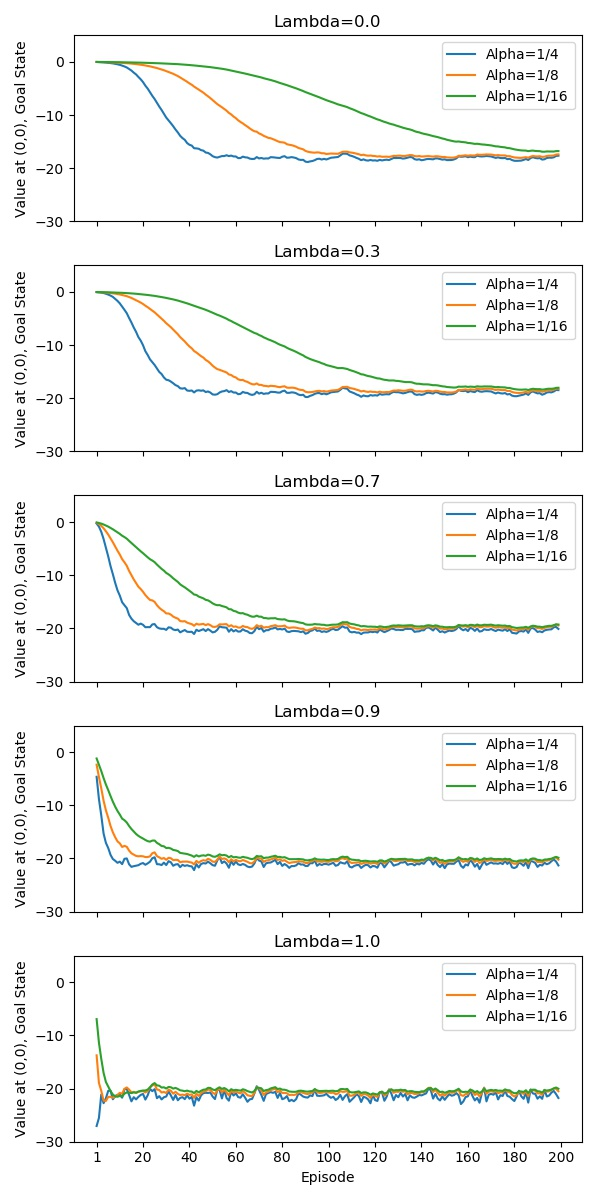
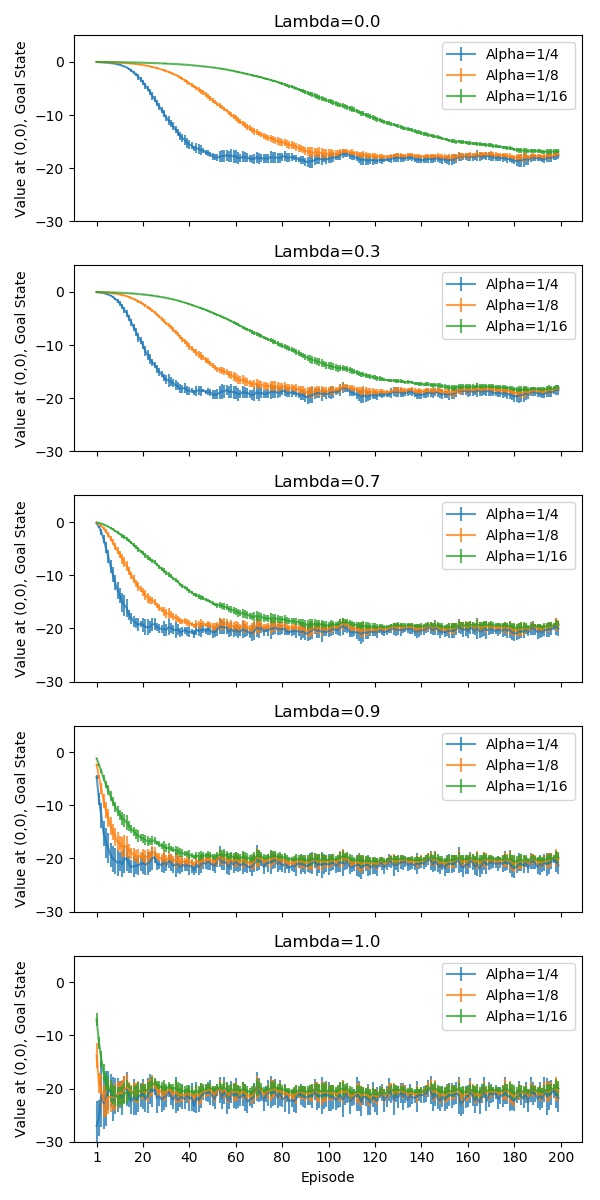
updated plot for q2a

diff --git a/assignment02/q2a_plot.py b/assignment02/q2a_plot.py
@@ -7,6 +7,7 @@ import matplotlib.pyplot as plt
 def plot_learning_curves(data):
 
     LEGEND = ['Alpha=1/4', 'Alpha=1/8', 'Alpha=1/16']
+    X = np.arange(0, 200)
     XTICKS = np.arange(0, 201, 20)
     XTICKLABELS = np.arange(0, 201, 20)
     XTICKLABELS[0] = 1
@@ -22,7 +23,10 @@ def plot_learning_curves(data):
 
     for i, ax in enumerate(axs):
 
-        ax.plot(np.mean(data[:, :, i, :], axis=0))
+        for j in range(3):
+            ax.errorbar(X, np.mean(data[:, :, i, j], axis=0),
+                           np.std(data[:, :, i, j], axis=0), alpha=0.75)
+
         ax.set_ylabel(YLABEL)
         ax.set_xticks(XTICKS)
         ax.set_ylim(YLIM)
